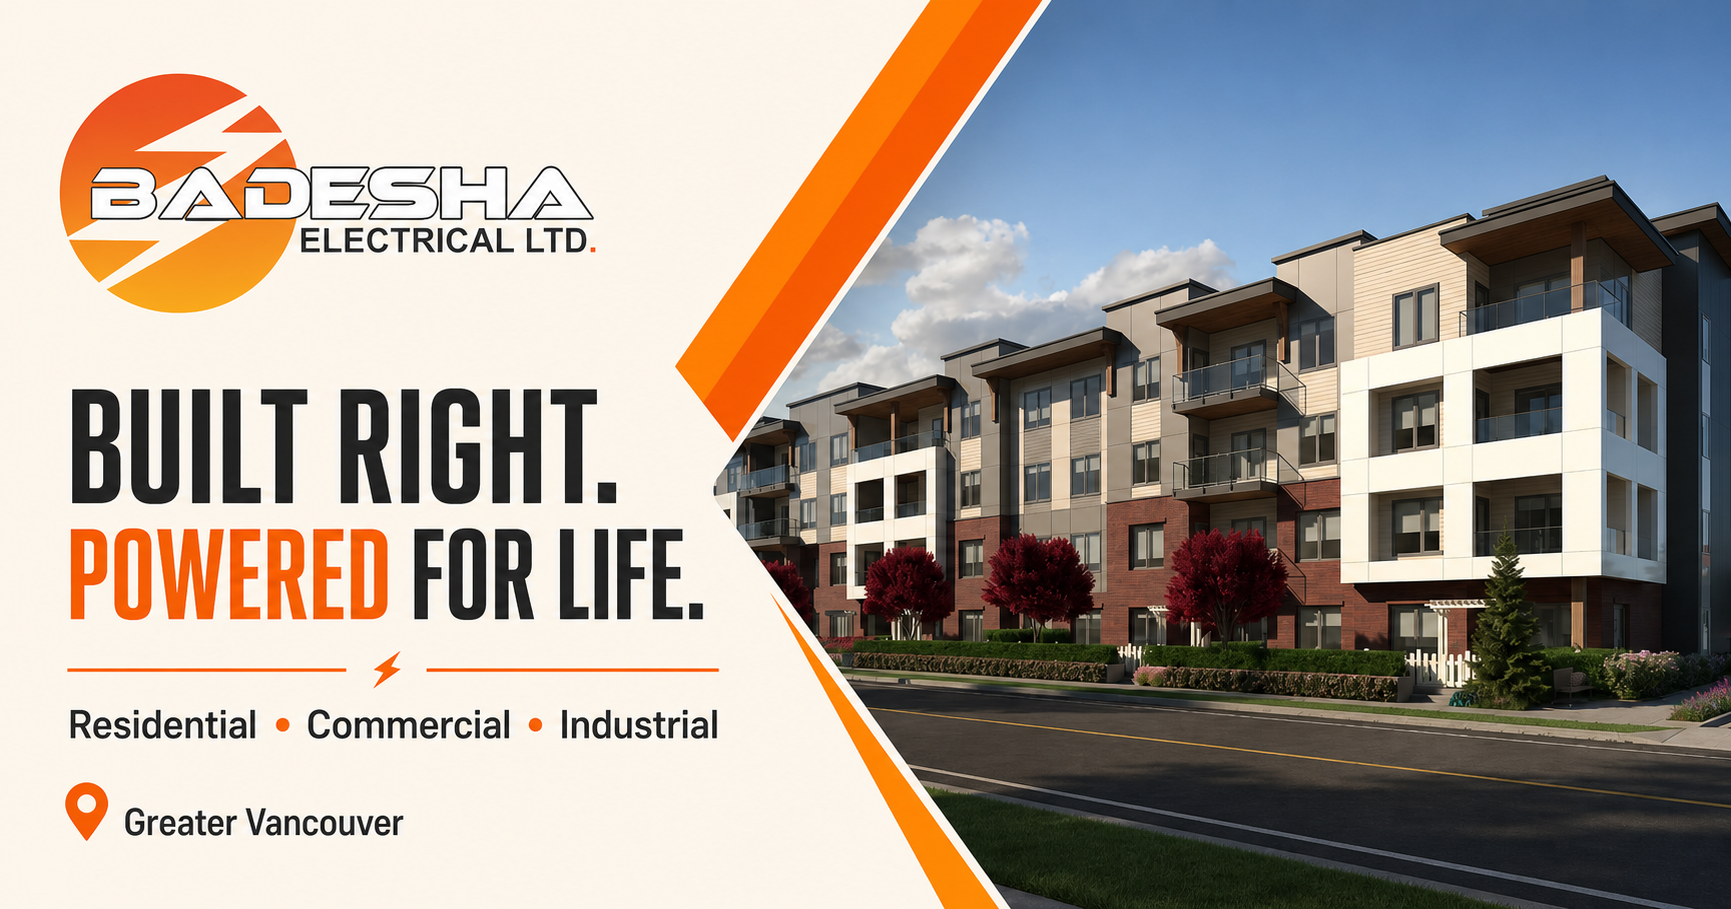
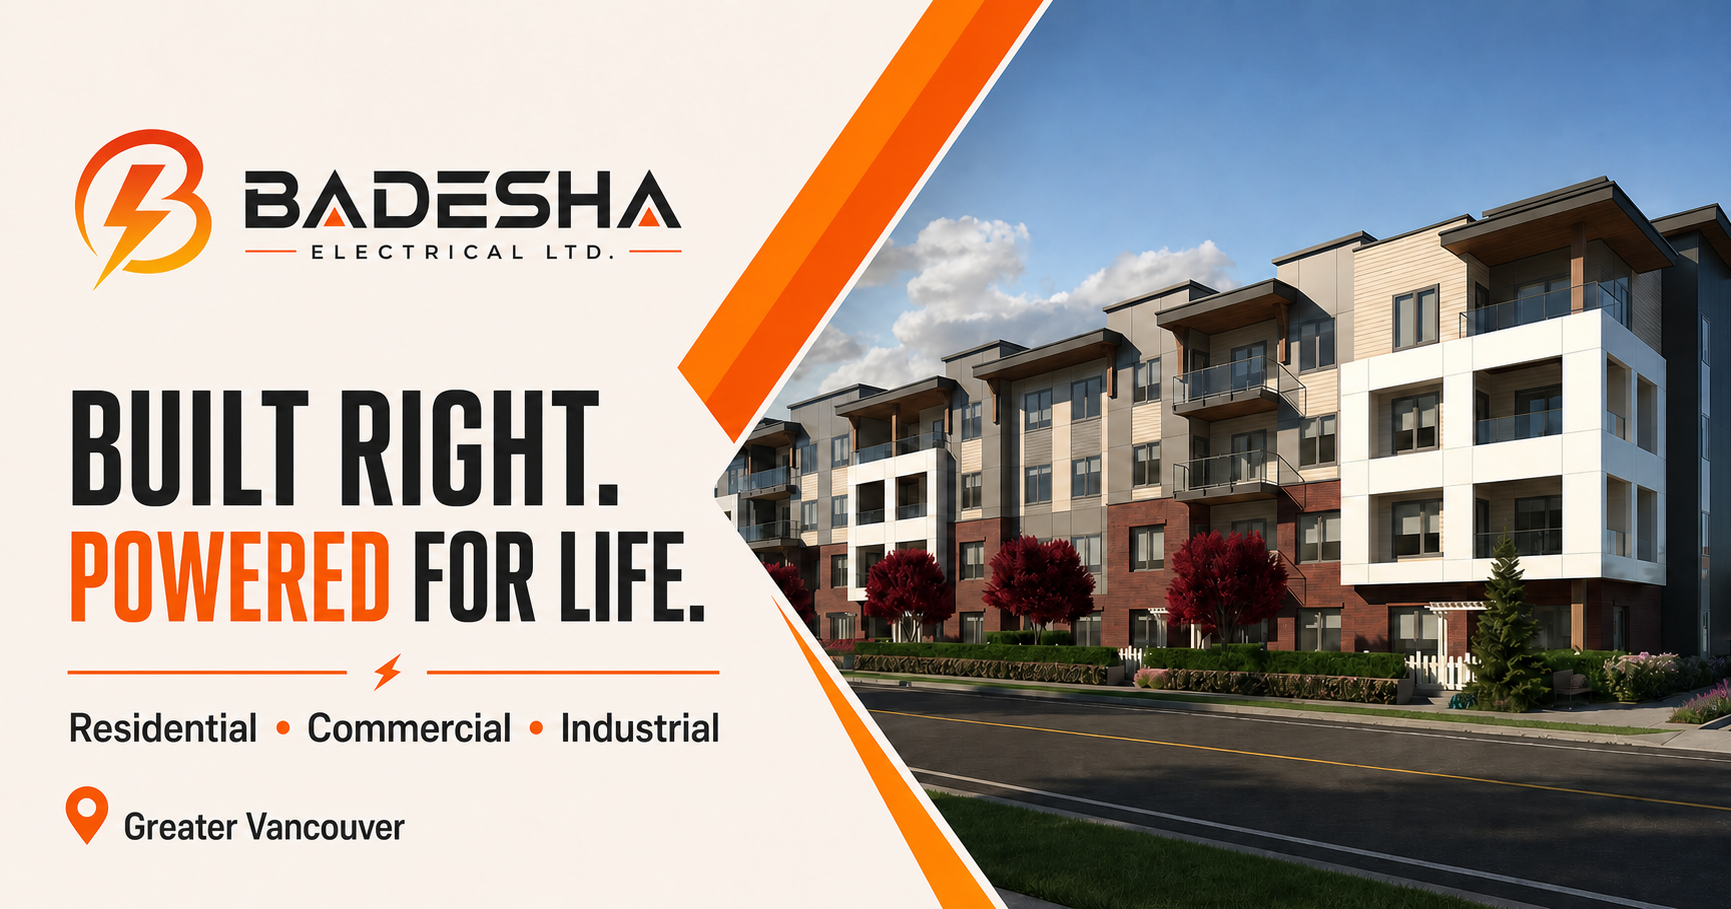
Replace Badesha brand assets across site and search

diff --git a/app/globals.css b/app/globals.css
@@ -21,8 +21,8 @@ button, input, textarea { font: inherit; }
 .skip-link:focus { top: 1rem; }
 
 .site-header { position: sticky; top: 0; z-index: 50; min-height: 78px; display: grid; grid-template-columns: minmax(200px, 1fr) auto minmax(250px, 1fr); align-items: center; gap: 2rem; padding: 0 4vw; background: rgba(255,255,255,.94); border-bottom: 1px solid rgba(23,32,42,.1); backdrop-filter: blur(18px); }
-.logo-link { width: 190px; }
-.logo-link img { width: 100%; height: 56px; object-fit: contain; object-position: left center; }
+.logo-link { width: 220px; }
+.logo-link img { width: 100%; height: auto; object-fit: contain; object-position: left center; }
 .desktop-nav { display: flex; align-items: center; gap: clamp(1rem,2.2vw,2.4rem); }
 .desktop-nav a { position: relative; padding: 1.75rem 0; color: #3d4750; font-size: .82rem; font-weight: 650; }
 .desktop-nav a::after { content: ""; position: absolute; left: 0; right: 100%; bottom: 1.3rem; height: 2px; background: var(--orange); transition: right .2s ease; }
@@ -212,7 +212,7 @@ button, input, textarea { font: inherit; }
 .footer-grid > div { display: flex; flex-direction: column; align-items: flex-start; gap: .8rem; }
 .footer-grid p, .footer-grid span, .footer-grid a { color: #aeb6bc; font-size: .86rem; line-height: 1.55; }
 .footer-grid strong { margin-bottom: .5rem; color: white; font-size: .82rem; }
-.footer-logo { width: 220px; height: 80px; object-fit: contain; object-position: left center; filter: brightness(0) invert(1); }
+.footer-logo { width: min(100%, 300px); height: auto; object-fit: contain; object-position: left center; }
 .footer-bottom { display: flex; justify-content: space-between; padding-top: 1.5rem; border-top: 1px solid #3b434b; color: #7f8990; font-family: var(--font-geist-mono); font-size: .62rem; letter-spacing: .08em; text-transform: uppercase; }
 
 .breadcrumb { width: min(100%, 1540px); display: flex; flex-wrap: wrap; gap: .55rem; margin: 0 auto; padding: 1.1rem 4vw; color: var(--muted); font-family: var(--font-geist-mono); font-size: .64rem; letter-spacing: .05em; }
@@ -336,8 +336,7 @@ button, input, textarea { font: inherit; }
 
 @media (max-width: 640px) {
   .site-header { min-height: 74px; padding: 0 5vw; }
-  .logo-link { width: 175px; }
-  .logo-link img { height: 54px; }
+  .logo-link { width: 185px; }
   .header-quote { display: none; }
   .hero-copy { padding: 5rem 6vw 4rem; }
   .hero-copy::before { display: none; }

diff --git a/components/SiteShell.tsx b/components/SiteShell.tsx
@@ -14,7 +14,7 @@ export function Header() {
   return (
     <header className="site-header">
       <Link className="logo-link" href="/" aria-label="Badesha Electrical Ltd. home">
-        <Image src="/images/logo.png" alt="Badesha Electrical Ltd." width={450} height={200} priority />
+        <Image src="/images/logo.png" alt="Badesha Electrical Ltd." width={2172} height={724} priority />
       </Link>
       <nav className="desktop-nav" aria-label="Primary navigation">
         {nav.map(([label, href]) => <a key={href} href={href}>{label}</a>)}
@@ -47,7 +47,7 @@ export function Footer() {
       </div>
       <div className="footer-grid">
         <div>
-          <Image className="footer-logo" src="/images/logo.png" alt="Badesha Electrical Ltd." width={450} height={200} />
+          <Image className="footer-logo" src="/images/logo.png" alt="Badesha Electrical Ltd." width={2172} height={724} />
           <p>Residential, commercial and industrial electrical expertise across Greater Vancouver.</p>
         </div>
         <div><strong>Visit</strong><Link href="/services">Services</Link><Link href="/projects">Projects</Link><Link href="/service-areas">Service areas</Link><Link href="/about">About</Link><Link href="/safety">Safety</Link></div>

diff --git a/app/layout.tsx b/app/layout.tsx
@@ -29,7 +29,11 @@ export const metadata: Metadata = {
       description: "Residential, commercial and industrial electrical services across Surrey and Greater Vancouver, backed by more than 30 years of experience.",
       images: ["/og.png"],
     },
-    icons: { icon: "/favicon.svg", apple: "/images/logo.png" },
+    icons: {
+      icon: [{ url: "/images/logo-mark.png", type: "image/png", sizes: "1254x1254" }],
+      shortcut: "/images/logo-mark.png",
+      apple: [{ url: "/images/logo-mark.png", sizes: "1254x1254", type: "image/png" }],
+    },
 };
 
 export const viewport: Viewport = { themeColor: "#ed5a1f", colorScheme: "light" };
